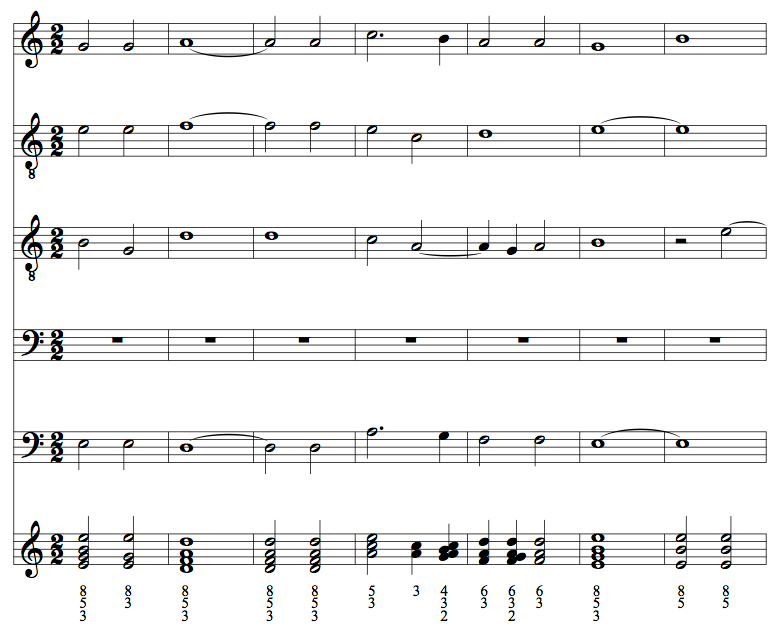
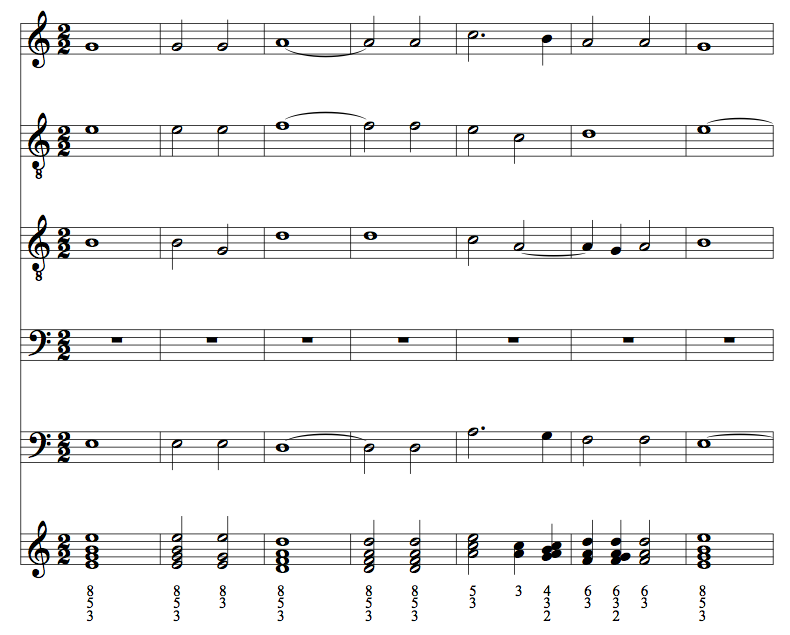
upated documentation examples

diff --git a/music21/test/testDocumentation.py b/music21/test/testDocumentation.py
@@ -486,7 +486,7 @@ class Test(unittest.TestCase):
         # Parse an Opus, a collection of Scores
         o = corpus.parseWork('josquin/laDeplorationDeLaMorteDeJohannesOckeghem')
         # Create a Score from a Measure range
-        sExcerpt = o.mergeScores().measures(128, 134)
+        sExcerpt = o.mergeScores().measures(127, 133)
         # Create a reduction of Chords
         reduction = sExcerpt.chordify()
         # Iterate over the Chords and prepare presentation
@@ -498,26 +498,24 @@ class Test(unittest.TestCase):
         sExcerpt.insert(0, reduction)
         #sExcerpt.show()
 
-        self.assertEqual(len(sExcerpt.flat.getElementsByClass('Chord')), 14)
+        self.assertEqual(len(sExcerpt.flat.getElementsByClass('Chord')), 13)
 
-        self.assertEqual(str(sExcerpt.flat.getElementsByClass('Chord')[0]), '<music21.chord.Chord E4 G4 B4 E5>')
+        self.assertEqual(str(sExcerpt.flat.getElementsByClass('Chord')[1]), '<music21.chord.Chord E4 G4 B4 E5>')
 
-        self.assertEqual(str(sExcerpt.flat.getElementsByClass('Chord')[1]), '<music21.chord.Chord E4 G4 E5>')
-        self.assertEqual(str(sExcerpt.flat.getElementsByClass('Chord')[2]), '<music21.chord.Chord D4 F4 A4 D5>')
+        self.assertEqual(str(sExcerpt.flat.getElementsByClass('Chord')[2]), '<music21.chord.Chord E4 G4 E5>')
         self.assertEqual(str(sExcerpt.flat.getElementsByClass('Chord')[3]), '<music21.chord.Chord D4 F4 A4 D5>')
         self.assertEqual(str(sExcerpt.flat.getElementsByClass('Chord')[4]), '<music21.chord.Chord D4 F4 A4 D5>')
-        self.assertEqual(str(sExcerpt.flat.getElementsByClass('Chord')[5]), '<music21.chord.Chord A4 C5 E5>')
-        self.assertEqual(str(sExcerpt.flat.getElementsByClass('Chord')[6]), '<music21.chord.Chord A4 C5>')
+        self.assertEqual(str(sExcerpt.flat.getElementsByClass('Chord')[5]), '<music21.chord.Chord D4 F4 A4 D5>')
+        self.assertEqual(str(sExcerpt.flat.getElementsByClass('Chord')[6]), '<music21.chord.Chord A4 C5 E5>')
+        self.assertEqual(str(sExcerpt.flat.getElementsByClass('Chord')[7]), '<music21.chord.Chord A4 C5>')
 
-        self.assertEqual(str(sExcerpt.flat.getElementsByClass('Chord')[7]), '<music21.chord.Chord G4 A4 B4 C5>')
-        self.assertEqual(str(sExcerpt.flat.getElementsByClass('Chord')[8]), '<music21.chord.Chord F4 A4 D5>')
+        self.assertEqual(str(sExcerpt.flat.getElementsByClass('Chord')[8]), '<music21.chord.Chord G4 A4 B4 C5>')
+        self.assertEqual(str(sExcerpt.flat.getElementsByClass('Chord')[9]), '<music21.chord.Chord F4 A4 D5>')
 
-        self.assertEqual(str(sExcerpt.flat.getElementsByClass('Chord')[9]), '<music21.chord.Chord F4 G4 A4 D5>')
+        self.assertEqual(str(sExcerpt.flat.getElementsByClass('Chord')[10]), '<music21.chord.Chord F4 G4 A4 D5>')
 
-        self.assertEqual(str(sExcerpt.flat.getElementsByClass('Chord')[10]), '<music21.chord.Chord F4 A4 D5>')
-        self.assertEqual(str(sExcerpt.flat.getElementsByClass('Chord')[11]), '<music21.chord.Chord E4 G4 B4 E5>')
-        self.assertEqual(str(sExcerpt.flat.getElementsByClass('Chord')[12]), '<music21.chord.Chord E4 B4 E5>')
-        self.assertEqual(str(sExcerpt.flat.getElementsByClass('Chord')[13]), '<music21.chord.Chord E4 B4 E5>')
+        self.assertEqual(str(sExcerpt.flat.getElementsByClass('Chord')[11]), '<music21.chord.Chord F4 A4 D5>')
+        self.assertEqual(str(sExcerpt.flat.getElementsByClass('Chord')[12]), '<music21.chord.Chord E4 G4 B4 E5>')
 
 
     def testExamplesE(self):
@@ -573,5 +571,5 @@ if __name__ == "__main__":
         #t.testExamplesB()
         #t.testExamplesC()
 
-        #t.testExamplesD()
-        t.testExamplesE()
+        t.testExamplesD()
+        #t.testExamplesE()

diff --git a/buildDoc/rst/examples.rst b/buildDoc/rst/examples.rst
@@ -18,7 +18,7 @@ This example, after parsing a polyphonic work stored as an Opus and creating a S
     # Parse an Opus, a collection of Scores
     o = corpus.parseWork('josquin/laDeplorationDeLaMorteDeJohannesOckeghem')
     # Create a Score from a Measure range
-    sExcerpt = o.mergeScores().measures(128, 134)
+    sExcerpt = o.mergeScores().measures(127, 134)
     # Create a reduction of Chords
     reduction = sExcerpt.chordify()
     # Iterate over the Chords and prepare presentation
